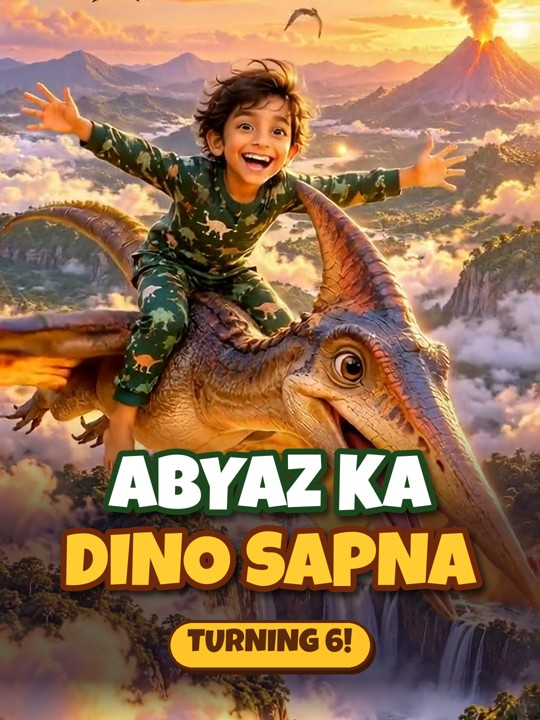
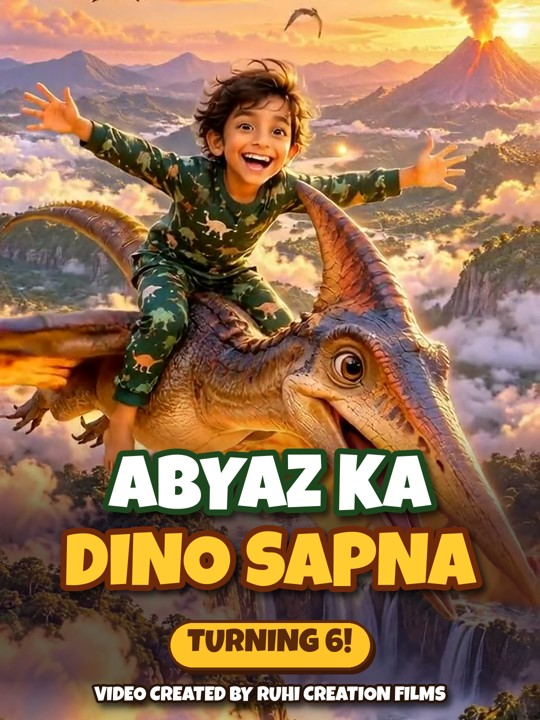
Add Ruhi Creation Films credit to Abyaz cover and caption
Claude-Session: https://claude.ai/code/session_01KZvoTvszf762eXvVYWNLba

Changed region(s): [[0.1481, 0.9472, 0.8593, 1.0]]

diff --git a/abyaz-dino-sapna/make_cover.py b/abyaz-dino-sapna/make_cover.py
@@ -6,8 +6,8 @@ img=Image.open('frame_0m55s.jpg').convert('RGB').resize((W,H),Image.LANCZOS)
 F='LuckiestGuy.ttf'
 # soft dark gradient behind the title for readability
 grad=Image.new('L',(W,H),0); g=ImageDraw.Draw(grad)
-for y in range(1080,1700):
-    a=int(170*min(1,(y-1080)/200)) if y<1600 else int(170*max(0,(1700-y)/100))
+for y in range(1080,1720):
+    a=int(170*min(1,(y-1080)/200)) if y<1600 else int(170*max(0,(1720-y)/120))
     g.line([(0,y),(W,y)],fill=a)
 img=Image.composite(Image.new('RGB',(W,H),(20,12,30)),img,grad)
 d=ImageDraw.Draw(img)
@@ -29,6 +29,8 @@ d.text((W/2-w/2,by0+18),s,font=f,fill=(90,40,10))
 # title
 text(W/2,1150,"ABYAZ KA",150,(255,255,255),12,(30,70,30))
 text(W/2,1305,"DINO SAPNA",150,(255,205,50),12,(110,40,10))
+# credit line
+text(W/2,1612,"VIDEO CREATED BY RUHI CREATION FILMS",40,(255,255,255),5,(40,20,10))
 img.save('cover.jpg',quality=95)
 # grid preview (3:4 centre crop as shown on profile)
 img.crop((0,240,1080,1680)).resize((540,720)).save('grid_preview.jpg',quality=90)

diff --git a/abyaz-dino-sapna/INSTAGRAM.md b/abyaz-dino-sapna/INSTAGRAM.md
@@ -1,7 +1,7 @@
 # Abyaz Ka Dino Sapna: Instagram Reel Pack
 
 Video: `Abyaz_Ka_Dino_Sapna_phone.mp4` (1:59, 720x1280, 9:16)
-Cover: `cover.jpg` (1080x1920, built from the 0:55 frame of Abyaz flying on the pterodactyl, eyes open, face unedited)
+Cover: `cover.jpg` (1080x1920, built from the 0:55 frame of Abyaz flying on the pterodactyl, eyes open, face unedited, with the credit "Video created by Ruhi Creation Films")
 
 ---
 
@@ -61,7 +61,11 @@ Happy 6th Birthday, Abyaz. May every dream be this big. 🎂💚
 👇 Drop a birthday wish for Abyaz in the comments!
 ```
 
-Optional last line: `Video by @ruhicreation` (replace with your handle).
+Last line of the caption (keep it):
+
+```
+🎬 Video created by Ruhi Creation Films
+```
 
 ---
 
